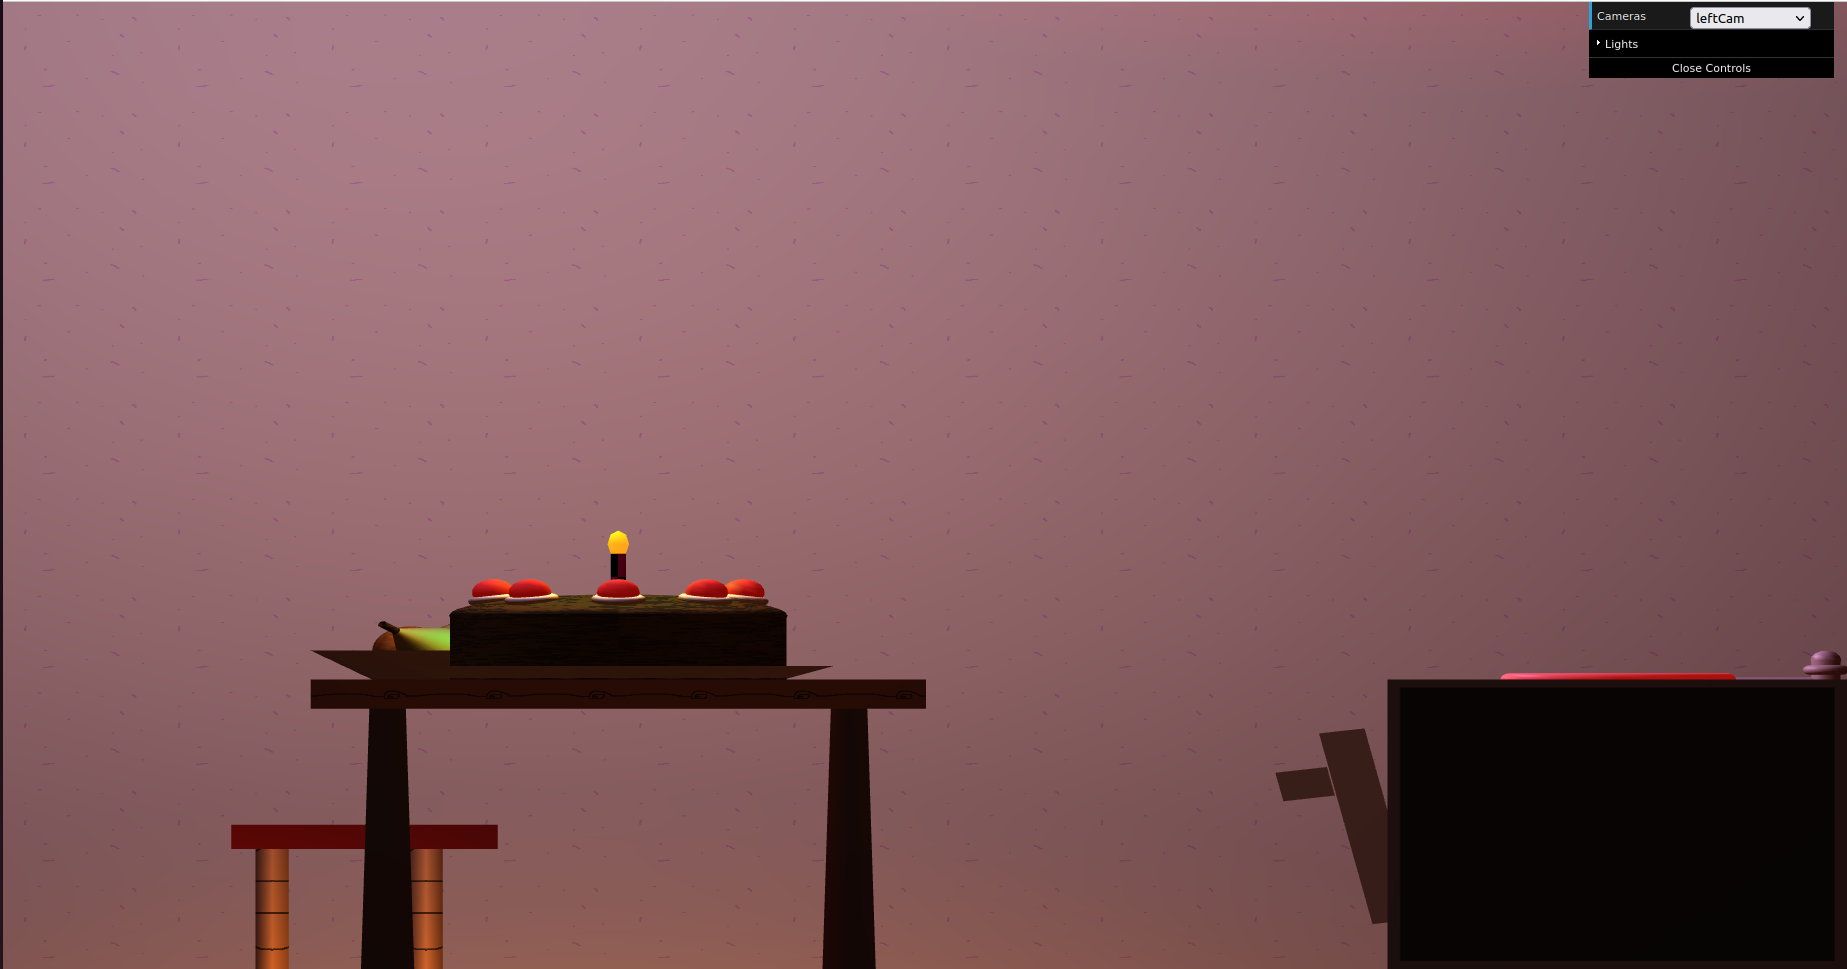
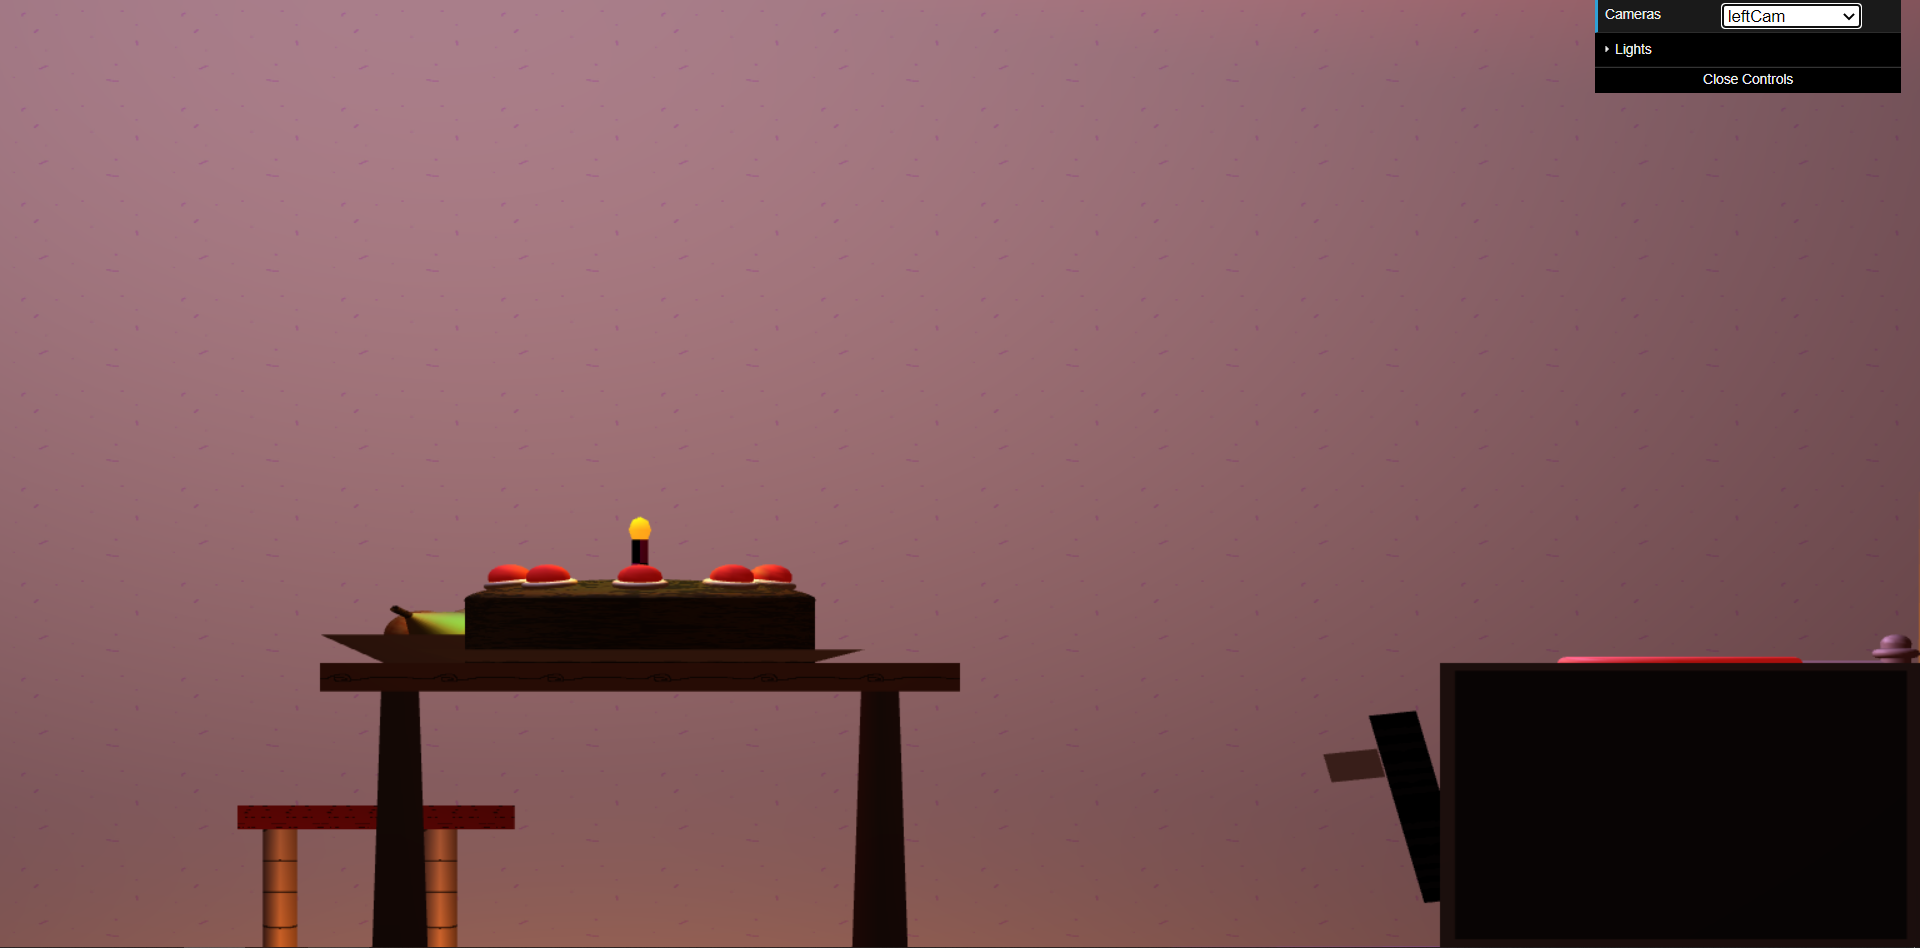
screenshot link fix

diff --git a/README.md b/README.md
@@ -17,9 +17,9 @@
 - We also did turned MyRectangle into a grid of rectangles, so lighting effects (specifically spotlights) would be clearly visible.
 - Scene
   - The scene is composed of a tiled area, with a counter with a sink, oven, a table with a bowl/plate with fruits and a plate with a cake and a triangular stool.
-  - [Scene screenshots](https://git.fe.up.pt/sgi-meic/sgi-2022-2023/t02/sgi-t02-g07/-/tree/main/tp1/scenes/screenshots)
+  - [Scene screenshots](tp1/scenes/screenshots)
 
-  ![Test](https://git.fe.up.pt/sgi-meic/sgi-2022-2023/t02/sgi-t02-g07/-/raw/main/tp1/scenes/screenshots/version2.1.png)
+  ![Test](tp1/scenes/screenshots/version2.png)
   - [Scene](/tp1/scenes/kitchen.xml)
 
 -----

diff --git a/tp1/README.md b/tp1/README.md
@@ -15,9 +15,9 @@
 - We also did turned MyRectangle into a grid of rectangles, so lighting effects (specifically spotlights) would be clearly visible.
 - Scene
   - The scene is composed of a tiled area, with a counter with a sink, oven, a table with a bowl/plate with fruits and a plate with a cake and a triangular stool.
-  - [Scene screenshots](https://git.fe.up.pt/sgi-meic/sgi-2022-2023/t02/sgi-t02-g07/-/tree/main/tp1/scenes/screenshots)
+  - [Scene screenshots](/scenes/screenshots)
 
-  ![Test](https://git.fe.up.pt/sgi-meic/sgi-2022-2023/t02/sgi-t02-g07/-/raw/main/tp1/scenes/screenshots/version2.1.png)
+  ![Test](/scenes/screenshots/version2.png)
 
 ----
 ## Issues/Problems
